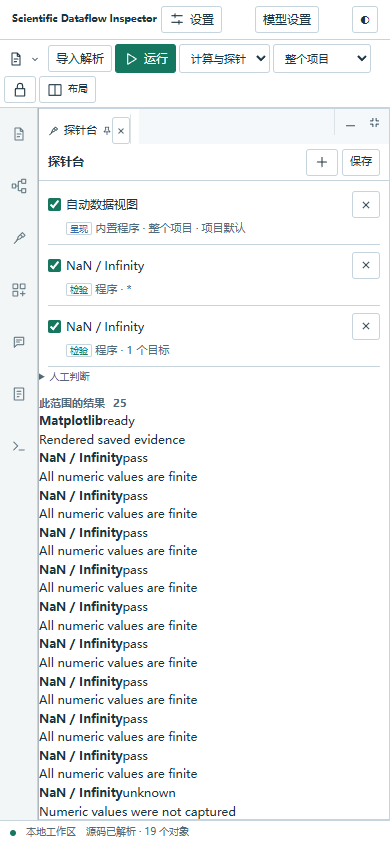
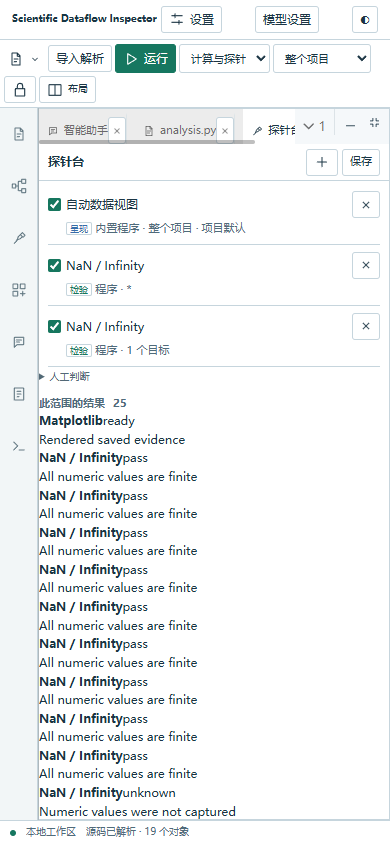
docs(release): archive refreshed 0.5 browser and native acceptance

Changed region(s): [[0.0923, 0.1232, 0.6462, 0.1848], [0.7077, 0.1232, 0.7385, 0.1848]]

diff --git a/docs/research/hierarchical-workbench-validation.md b/docs/research/hierarchical-workbench-validation.md
@@ -22,9 +22,13 @@
 
 原生终端新会话没有继承无障碍输出设置，已修复。历史输出中的设备查询会在重连时重复作答，把转义字符送进 Python 输入，已区分重放与实时输出并抑制历史查询响应。Windows 并发解析重复替换归档文件引发拒绝访问，已改为在项目存储锁下写入一次，冲突证据保持原状并报错。
 
+跨平台验收还发现 macOS 交互 Shell 的退出路径故障。终端清理现分别处理所属进程，释放 PTY 后再等待结束，并确认仍可执行的后代停止；不会用已退出的组重复发送终止信号。保留真实前台中断、中文解码、独立进程组和后代先后退出的测试，跨平台结果随最终提交检查。
+
 浏览器关闭时的页面离开请求偶尔未送达，或留下未完成的连接租约，使服务继续停留到首次启动超时。已改为最后一个实际连接断开后进入刷新宽限；刷新重连可继续使用，关闭最后标签后拥有的服务及时停止。独立 CLI 计算与借用的服务保留原有生命周期。
 
 新运行尚未出现在历史列表时，下拉框会显示空白，现保留当前运行的明确选项。关系图切换结构／数据视图或进入块时会重新适应该范围，选中、虚化、数值更新和查看固定历史图仍保持相机；布局耗时在本次布局完成后更新。
+
+窄屏首屏快速打开助手可能早于项目布局载入，导致已打开的视图随后消失。现保留初始化期间的布局命令，并在项目布局载入后应用；测试主动延迟项目信息，先点击助手，再释放初始化，核对输入区和后续探针视图仍可操作。
 
 旧包元数据和旧构建目录可能使验收误选 0.4 或带入废弃前端资源。构建和验收脚本现固定当前发行名，核对 wheel 与当前静态资源集合，并逐字节核对私有桌面运行时。
 
@@ -44,10 +48,11 @@
 
 [机器可读回执](../assets/scientific-release-validation.json)包含包 SHA-256、原生回执和性能范围。[执行账本](hierarchical-workbench-ledger.md)保存逐项门槛、裁决及修复记录；[独立审查原报告](hierarchical-review-report.md)保留修复前结论。本轮只做了一次全分支独立审查，10 项重要或关键发现全部经过同一轮 RED→GREEN 修复，没有暂缓的小项。
 
-千级对象夹具在关系图可见及缩小但仍挂载时分别采集 20 次选择，到下一帧 P95 为 2.4 ms／3.9 ms，检查实际选中样式，均低于 50 ms 目标。该结果不包含科研计算、绘图或冷导入。NSIS 安装包已构建，签名状态为 `NotSigned`；原生检查使用 `win-unpacked`，没有执行安装向导。系统全局缩放没有修改，原生检查使用明确的设备显示密度参数。
+千级对象夹具在关系图可见及缩小但仍挂载时分别采集 20 次选择，到下一帧 P95 为 2.5 ms／2.5 ms，检查实际选中样式，均低于 50 ms 目标。该结果不包含科研计算、绘图或冷导入。NSIS 安装包已构建，签名状态为 `NotSigned`；原生检查使用 `win-unpacked`，没有执行安装向导。系统全局缩放没有修改，原生检查使用明确的设备显示密度参数。
 
 推送后通过[分支最新 CI](https://github.com/iyohesohoka646-dotcom/SFA/actions?query=branch%3Afeat%2Fcontract-driven-ai-flow)检查 Windows、Linux、macOS × Python 3.11–3.13 及 Linux 浏览器。发布回执记录本地验收时状态，CI 以最新提交为准，不沿用 0.4 的旧运行。
 
 ## 验证范围
 
 性能夹具测量交互，不执行科学计算；静态导入另行测量。Windows 原生效果与跨平台 Python/浏览器 CI 分别判断。远程模型推理、异步控制生命周期、GPU 内置适配、macOS/Linux 原生桌面以及 NSIS 安装向导的状态按最终回执记录，未执行的路径不计入已验证。
+

diff --git a/docs/research/hierarchical-workbench-ledger.md b/docs/research/hierarchical-workbench-ledger.md
@@ -48,3 +48,7 @@ Final native fixture correction: wait for the matching import POST and new sourc
 Integration checkpoint: c45581f pushed to the authorized feature branch; existing draft PR #1 updated to the 0.5 scope and attached. Current-head cross-platform run 37079641837 inspected as in_progress; this records the checkpoint only, and final delivery checks the final branch head separately. No master merge or package publication.
 
 Cross-platform terminal gate: checkpoint c45581f CI 37079641837 passed Windows/Linux and browser checks, but all macOS versions exposed terminal cleanup failures. c5a14c2 removed redundant group signals and terminated the known child explicitly; CI 37080706233 reduced this to interactive-shell exit timeout. XNU's controlling-terminal exit drains output before reaping (https://github.com/apple-oss-distributions/xnu/blob/main/bsd/kern/kern_exit.c); release the PTY master before the final wait, and await non-zombie owned descendants rather than assuming SIGKILL is synchronous. Actual WSL regression briefly reproduced an asynchronous descendant-exit failure; the final cleanup passes 8/8 real POSIX tests in 9.69s. Windows whole suite passes 686 with 8 platform-specific skips in 406.69s. Current-head CI must pass before final delivery; these lines preserve failed checkpoints as evidence, not release approval.
+
+Additional CI effect gate: 37081484451 passed all nine Windows/Linux/macOS Python 3.11–3.13 combinations and isolated wheel checks. Its browser gate passed 64/65 and caught a first-load layout race: opening intelligence before project identity arrived was overwritten by layout hydration. A deterministic delayed-info browser regression reproduced the missing task input (RED); loading now reapplies explicit initialization-time layout commands instead of dropping them. The same real narrow-screen test passes (GREEN), and frontend units pass 29/29. Full browser and refreshed package/native gates follow on these bytes; no additional independent review was started.
+
+Final refreshed local gates on e194747: full browser 65/65 with zero skipped/flaky cases; frontend 29/29 and unchanged desktop controller 2/2; current wheel isolated installation passed. Current private runtime and packaged desktop contain the rebuilt startup fix. Packaged Windows terminal test passed at 1.5 with three concurrent real Python/CLI/Shell sessions, Unicode and owned-child/port cleanup. Packaged lifecycle passed at 1.25 with own Chinese script, actual matrix/anomaly and Matplotlib replot, automatic harness scope, shared CLI history, private offline export and source preservation. Latest 20+20 thousand-object DOM-effect samples give P95 2.5/2.5 ms; this supersedes the earlier 2.4/3.9 measurement without broadening its scope. NSIS rebuild completed; its actual signature is NotSigned and its wizard remains unexecuted. Final source-archive install and byte-matching receipt are generated after these refreshed records; the final pushed-head CI is checked independently.

diff --git a/docs/release.md b/docs/release.md
@@ -17,7 +17,7 @@ cdaf terminal --project .\experiment
 cdaf workbench --help
 ```
 
-Windows 本地程序为 `dist/desktop/win-unpacked/Scientific Dataflow Inspector.exe`；NSIS 安装包位于同一目录。关闭最后一个拥有服务的浏览器标签后服务停止，刷新有宽限；需要持续服务时使用 `cdaf serve`。[工作台使用](research/workbench.md) · [CLI](research/cli.md) · [桌面构建](../desktop/README.md)。
+Windows 本地程序为 `dist/desktop/win-unpacked/Scientific Dataflow Inspector.exe`；NSIS 安装包为 `dist/desktop/Scientific Dataflow Inspector Setup 0.5.0.exe`。关闭最后一个拥有服务的浏览器标签后服务停止，刷新有宽限；需要持续服务时使用 `cdaf serve`。[工作台使用](research/workbench.md) · [CLI](research/cli.md) · [桌面构建](../desktop/README.md)。
 
 ## 验证与边界
 
